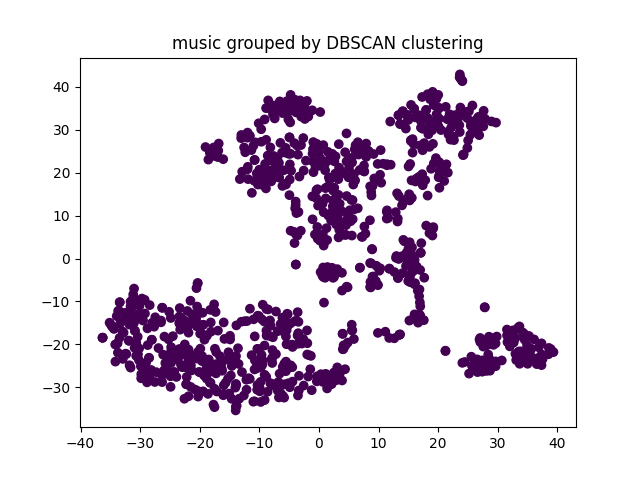
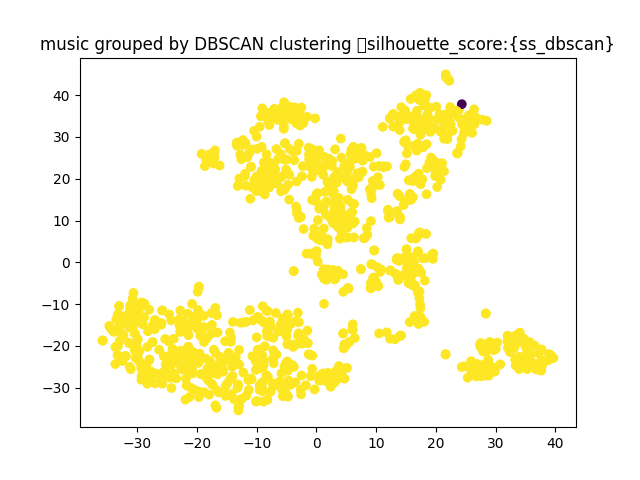
created silleute score images

diff --git a/src/main.py b/src/main.py
@@ -54,11 +54,11 @@ kmeans = KMeans(n_clusters=10, random_state=0, n_init="auto").fit(emb_list)
 y_kmeans = kmeans.labels_
 ss_kmeans = silhouette_score(emb_list, y_kmeans)    
 
-hdbscan = HDBSCAN().fit(emb_list)
+hdbscan = HDBSCAN(min_cluster_size=10, min_samples=5).fit(emb_list)
 y_hdbscan = hdbscan.labels_
 ss_hdbscan = silhouette_score(emb_list, y_hdbscan) 
 
-dbscan= DBSCAN().fit(emb_list)
+dbscan= DBSCAN(eps=12.2, min_samples=5).fit(emb_list)
 y_dbscan = dbscan.labels_
 ss_dbscan = silhouette_score(emb_list, y_dbscan) 
 
